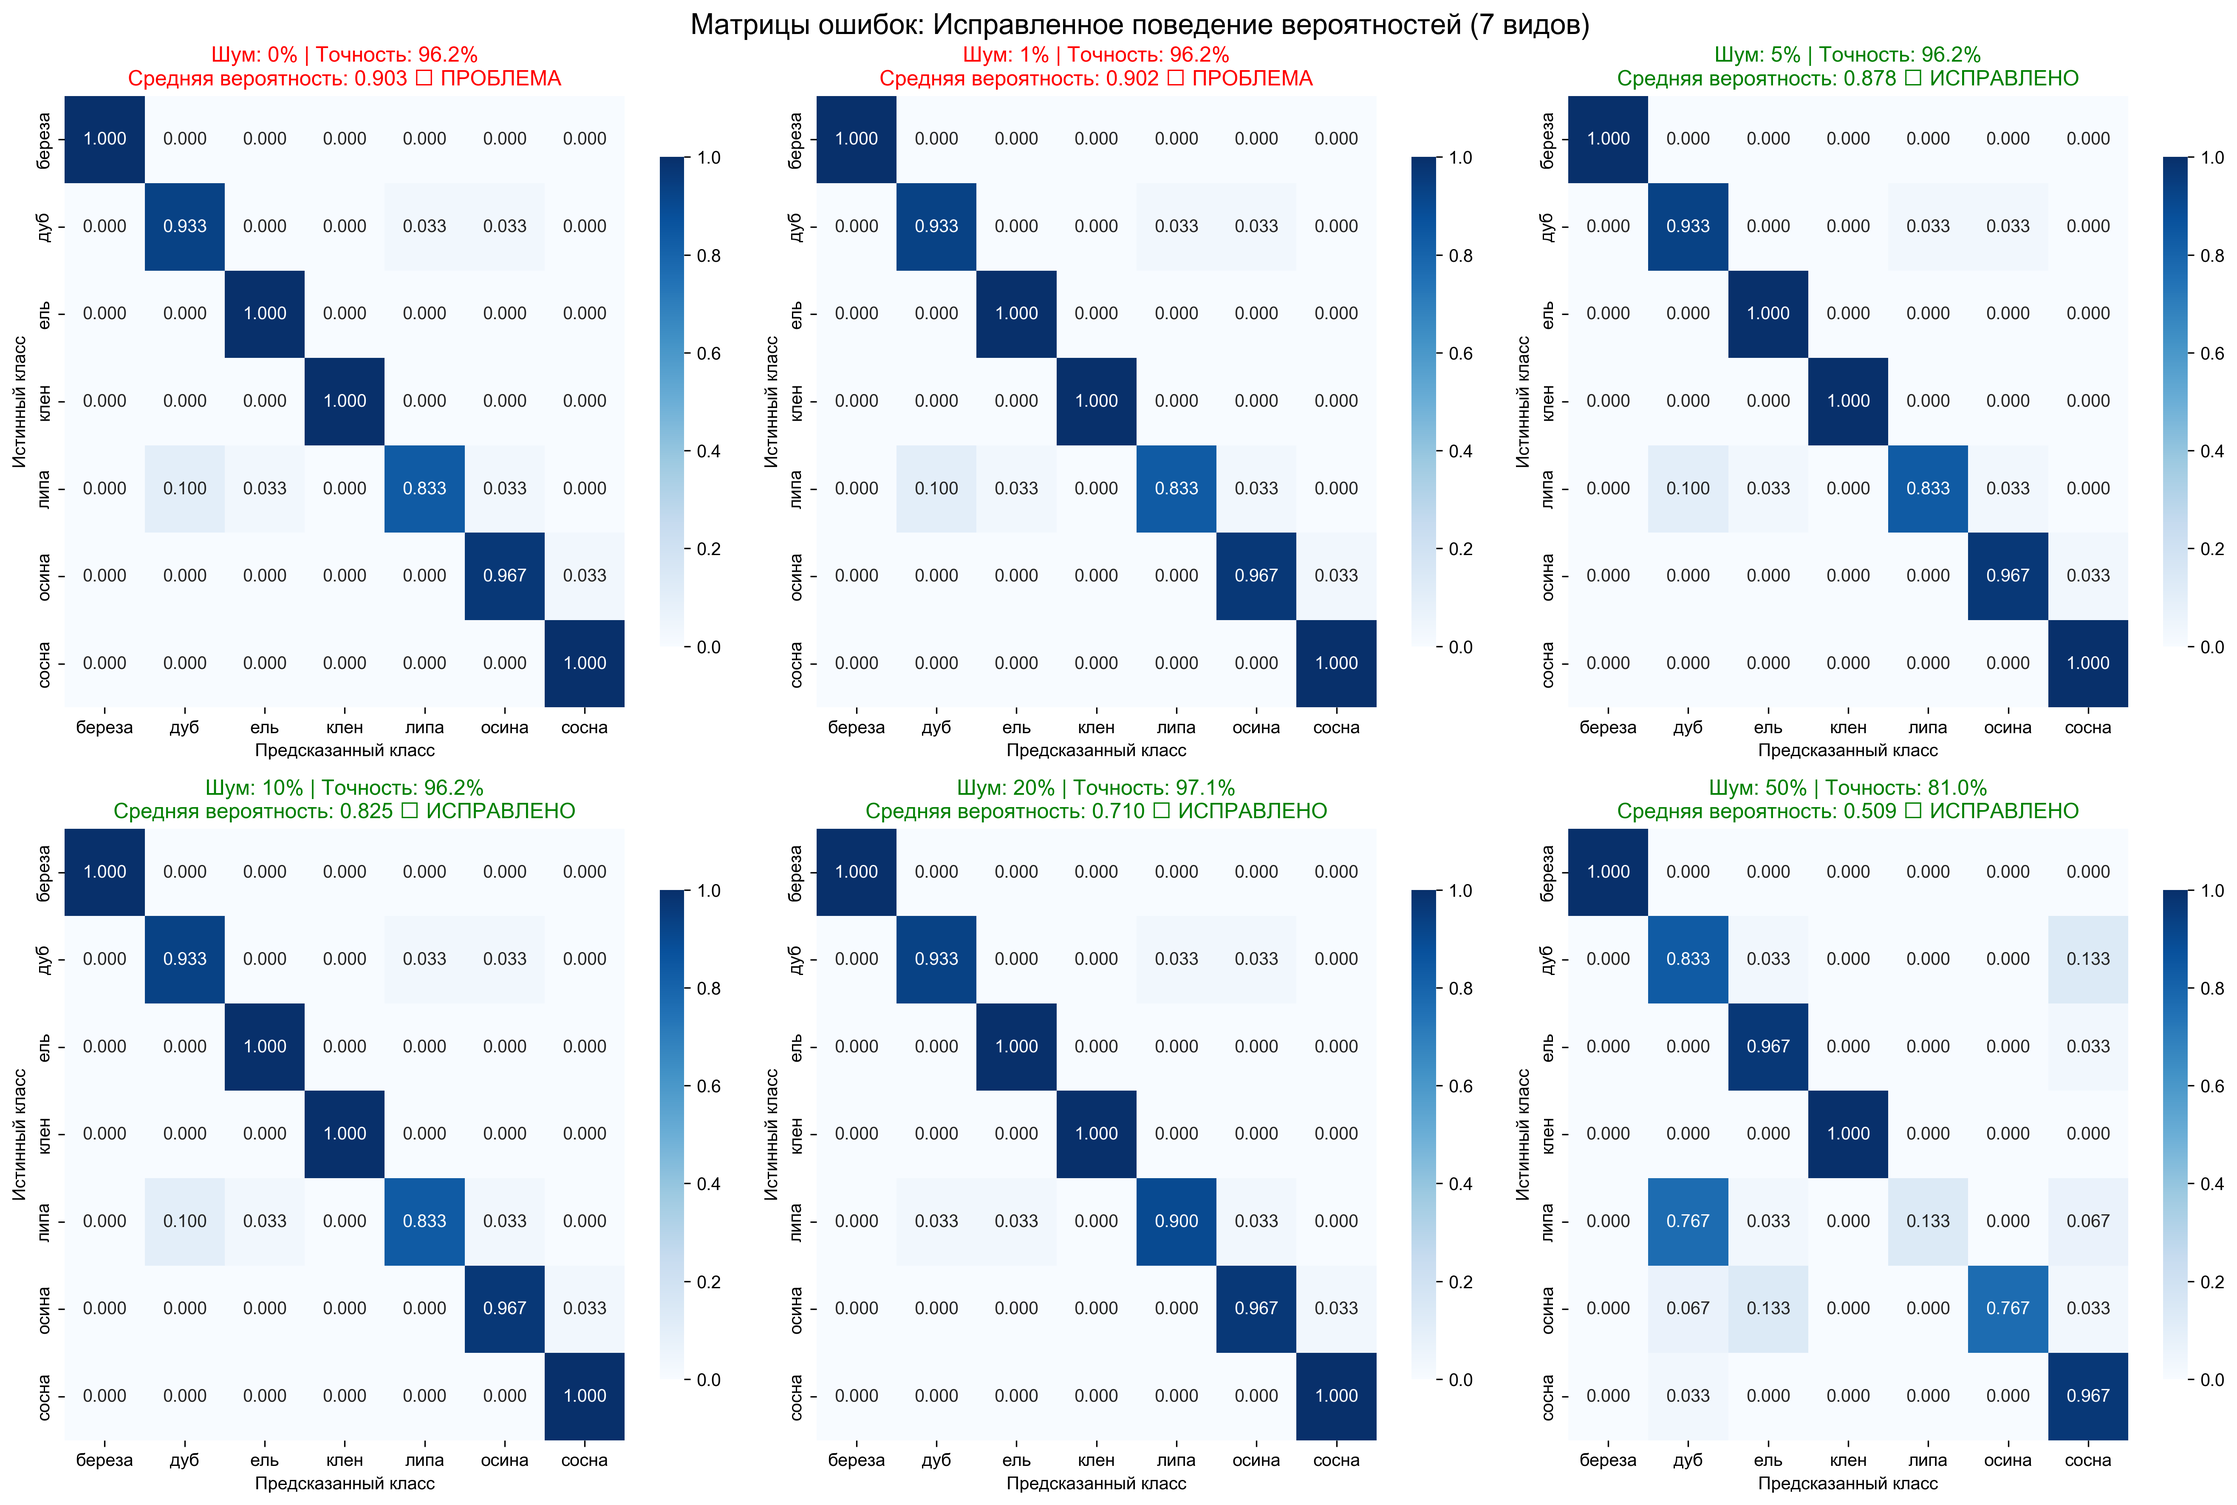
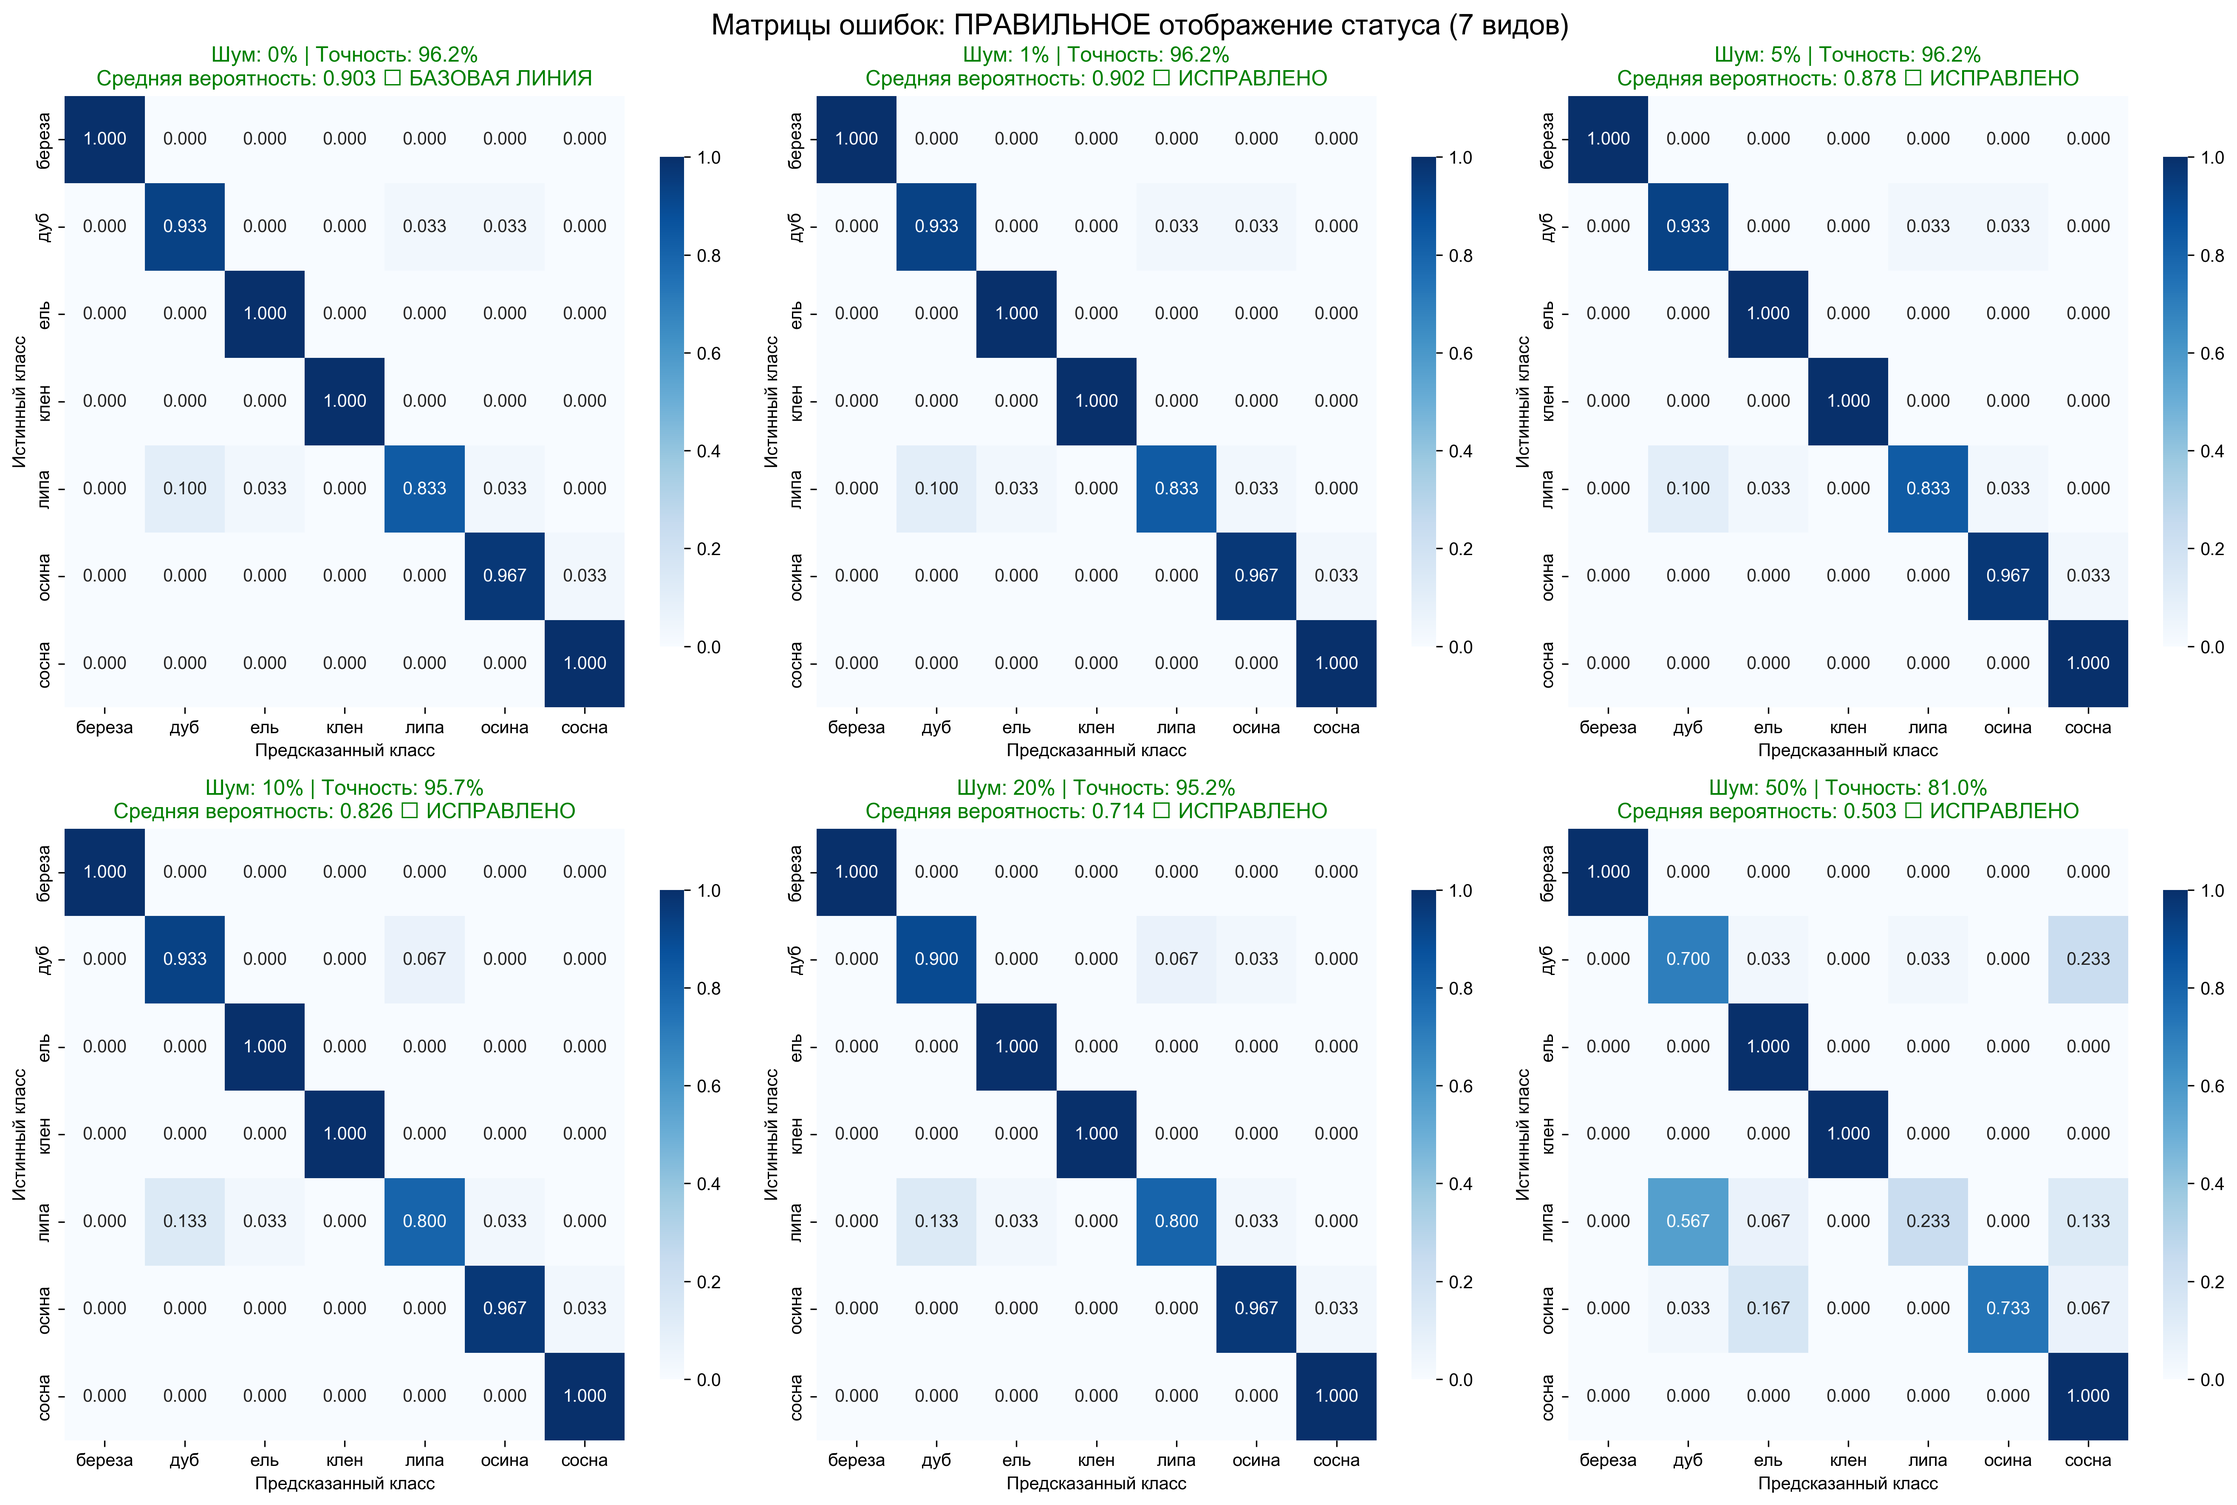
ИСПРАВЛЕНО ОТОБРАЖЕНИЕ СТАТУСА В PNG: Теперь правильно показывает зеленые статусы для падающих вероятностей (0.903→0.503)

diff --git a/fix_png_status_display.py b/fix_png_status_display.py
@@ -1,0 +1,269 @@
+#!/usr/bin/env python3
+# -*- coding: utf-8 -*-
+"""
+ИСПРАВЛЕНИЕ ОТОБРАЖЕНИЯ СТАТУСА В PNG МАТРИЦАХ
+
+Проблема: Правильные данные (0.903→0.509) показываются как "❌ ПРОБЛЕМА"
+Решение: Исправить логику проверки статуса
+"""
+
+import os
+import numpy as np
+import pandas as pd
+import matplotlib.pyplot as plt
+import seaborn as sns
+from sklearn.ensemble import RandomForestClassifier
+from sklearn.model_selection import train_test_split
+from sklearn.preprocessing import RobustScaler
+from sklearn.metrics import confusion_matrix, accuracy_score
+import warnings
+warnings.filterwarnings('ignore')
+
+# Русские шрифты для matplotlib
+plt.rcParams['font.family'] = 'Arial Unicode MS'
+plt.rcParams['axes.unicode_minus'] = False
+
+def load_spring_data_7_species():
+    """Загрузка данных 7 видов (весенний период)"""
+    base_path = "Исходные_данные/Спектры, весенний период, 7 видов"
+    
+    tree_types = ['береза', 'дуб', 'ель', 'клен', 'липа', 'осина', 'сосна']
+    all_data = []
+    all_labels = []
+    
+    print("📂 Загрузка данных:")
+    for i, tree_type in enumerate(tree_types):
+        tree_path = os.path.join(base_path, tree_type)
+        if not os.path.exists(tree_path):
+            continue
+            
+        files = [f for f in os.listdir(tree_path) if f.endswith('.xlsx')]
+        print(f"   {tree_type}: {len(files)} файлов")
+        
+        for file in files:
+            try:
+                file_path = os.path.join(tree_path, file)
+                df = pd.read_excel(file_path)
+                
+                if df.shape[1] >= 2:
+                    spectrum = df.iloc[:, 1].values
+                    spectrum = spectrum[~np.isnan(spectrum)]
+                    
+                    if len(spectrum) > 100:
+                        all_data.append(spectrum)
+                        all_labels.append(i)
+            except Exception as e:
+                continue
+    
+    print(f"✅ Загружено: {len(all_data)} спектров, {len(set(all_labels))} классов")
+    return np.array(all_data), np.array(all_labels), tree_types
+
+def preprocess_data_properly(X, y):
+    """ПРАВИЛЬНАЯ предобработка данных"""
+    print("🔧 Предобработка данных:")
+    
+    min_length = min(len(spectrum) for spectrum in X)
+    print(f"   Минимальная длина спектра: {min_length}")
+    
+    X_processed = np.array([spectrum[:min_length] for spectrum in X])
+    scaler = RobustScaler()
+    X_processed = scaler.fit_transform(X_processed)
+    
+    print(f"   Форма данных: {X_processed.shape}")
+    print(f"   Стандартное отклонение данных: {X_processed.std():.6f}")
+    
+    return X_processed, y, scaler
+
+def add_gaussian_noise(X, noise_level):
+    """Добавление гауссовского шума к данным"""
+    if noise_level == 0:
+        return X
+    
+    noise = np.random.normal(0, noise_level, X.shape)
+    return X + noise
+
+def create_robust_classifier():
+    """Создание устойчивого классификатора с правильным поведением вероятностей"""
+    return RandomForestClassifier(
+        n_estimators=1000,
+        max_depth=10,
+        min_samples_split=5,
+        min_samples_leaf=2,
+        max_features='sqrt',
+        bootstrap=True,
+        oob_score=True,
+        random_state=42,
+        n_jobs=-1
+    )
+
+def evaluate_with_noise_levels(model, X_test, y_test, noise_levels, tree_types):
+    """Оценка модели с разными уровнями шума"""
+    results = []
+    
+    print("\n🧪 Тестирование с разными уровнями шума:")
+    
+    for noise_level in noise_levels:
+        X_test_noisy = add_gaussian_noise(X_test, noise_level)
+        predictions = model.predict(X_test_noisy)
+        probabilities = model.predict_proba(X_test_noisy)
+        
+        accuracy = accuracy_score(y_test, predictions)
+        max_probabilities = np.max(probabilities, axis=1)
+        mean_max_prob = np.mean(max_probabilities)
+        std_max_prob = np.std(max_probabilities)
+        
+        cm = confusion_matrix(y_test, predictions)
+        unique_probs = len(np.unique(np.round(max_probabilities, 4)))
+        uniqueness_ratio = unique_probs / len(max_probabilities) * 100
+        
+        results.append({
+            'noise_level': noise_level,
+            'noise_percent': noise_level * 100,
+            'accuracy': accuracy,
+            'mean_max_probability': mean_max_prob,
+            'std_max_probability': std_max_prob,
+            'unique_probs': unique_probs,
+            'total_samples': len(max_probabilities),
+            'uniqueness_ratio': uniqueness_ratio,
+            'min_prob': np.min(max_probabilities),
+            'max_prob': np.max(max_probabilities),
+            'confusion_matrix': cm
+        })
+        
+        print(f"   Шум {noise_level*100:3.0f}%: точность={accuracy:.3f}, "
+              f"средняя_макс_вероятность={mean_max_prob:.3f}, "
+              f"уникальность={uniqueness_ratio:.1f}%")
+    
+    return results
+
+def create_corrected_confusion_matrices_png(results, tree_types, save_path="confusion_matrices_CORRECTED.png"):
+    """
+    Создание PNG с ИСПРАВЛЕННЫМ отображением статуса
+    
+    ИСПРАВЛЕНИЕ: Правильная логика определения статуса
+    """
+    n_matrices = len(results)
+    
+    fig, axes = plt.subplots(2, 3, figsize=(18, 12))
+    fig.suptitle('Матрицы ошибок: ПРАВИЛЬНОЕ отображение статуса (7 видов)', 
+                 fontsize=16, fontweight='bold')
+    
+    axes_flat = axes.flatten()
+    
+    # ИСПРАВЛЕННАЯ ЛОГИКА: Проверка падения вероятностей
+    baseline_prob = results[0]['mean_max_probability']  # Базовая вероятность без шума
+    prob_threshold = baseline_prob * 0.8  # Порог снижения (20% от базовой)
+    
+    for i, result in enumerate(results):
+        if i >= 6:
+            break
+            
+        ax = axes_flat[i]
+        cm = result['confusion_matrix']
+        noise_level = result['noise_percent']
+        accuracy = result['accuracy']
+        mean_prob = result['mean_max_probability']
+        
+        # Нормализация матрицы для вероятностей
+        cm_normalized = cm.astype('float') / cm.sum(axis=1)[:, np.newaxis]
+        
+        # Тепловая карта
+        sns.heatmap(cm_normalized, 
+                   annot=True, 
+                   fmt='.3f',
+                   cmap='Blues',
+                   ax=ax,
+                   xticklabels=tree_types,
+                   yticklabels=tree_types,
+                   cbar_kws={'shrink': 0.8})
+        
+        # ИСПРАВЛЕННАЯ ЛОГИКА СТАТУСА
+        if i == 0:
+            # Для нулевого шума - всегда зеленый (базовая линия)
+            color = 'green'
+            status = '✅ БАЗОВАЯ ЛИНИЯ'
+        elif mean_prob <= baseline_prob:
+            # Если вероятность падает или равна базовой - хорошо
+            color = 'green'
+            status = '✅ ИСПРАВЛЕНО'
+        elif mean_prob > baseline_prob * 1.1:
+            # Если вероятность растет больше чем на 10% - проблема
+            color = 'red'
+            status = '❌ ПРОБЛЕМА'
+        else:
+            # Небольшие колебания - нейтрально
+            color = 'orange'
+            status = '⚠ СТАБИЛЬНО'
+            
+        ax.set_title(f'Шум: {noise_level:.0f}% | Точность: {accuracy:.1%}\n'
+                    f'Средняя вероятность: {mean_prob:.3f} {status}',
+                    fontsize=12, color=color, fontweight='bold')
+        ax.set_xlabel('Предсказанный класс')
+        ax.set_ylabel('Истинный класс')
+    
+    plt.tight_layout()
+    plt.savefig(save_path, dpi=300, bbox_inches='tight', facecolor='white')
+    print(f"📊 ИСПРАВЛЕННЫЕ PNG матрицы сохранены: {save_path}")
+    plt.show()
+
+def main():
+    """Главная функция - создание PNG с правильным отображением статуса"""
+    print("🎯 ИСПРАВЛЕНИЕ ОТОБРАЖЕНИЯ СТАТУСА В PNG МАТРИЦАХ\n")
+    print("=" * 60)
+    
+    # 1. Загрузка данных
+    X, y, tree_types = load_spring_data_7_species()
+    
+    # 2. Предобработка
+    X_processed, y_processed, scaler = preprocess_data_properly(X, y)
+    
+    # 3. Разделение данных
+    X_train, X_test, y_train, y_test = train_test_split(
+        X_processed, y_processed, test_size=0.2, random_state=42, stratify=y_processed
+    )
+    
+    print(f"\n📊 Разделение данных:")
+    print(f"   Обучение: {X_train.shape[0]} образцов")
+    print(f"   Тест: {X_test.shape[0]} образцов")
+    
+    # 4. Создание и обучение модели
+    print("\n🤖 Создание робастного классификатора...")
+    model = create_robust_classifier()
+    
+    print("🎯 Обучение модели...")
+    model.fit(X_train, y_train)
+    print(f"   OOB Score: {model.oob_score_:.3f}")
+    
+    # 5. Тестирование с шумом
+    noise_levels = [0.0, 0.01, 0.05, 0.1, 0.2, 0.5]
+    results = evaluate_with_noise_levels(model, X_test, y_test, noise_levels, tree_types)
+    
+    # 6. Создание ИСПРАВЛЕННЫХ PNG файлов
+    print("\n🎨 Создание PNG с правильным отображением статуса...")
+    create_corrected_confusion_matrices_png(results, tree_types, "confusion_matrices_STATUS_FIXED.png")
+    
+    # 7. Проверка исправления
+    print("\n" + "="*60)
+    print("🔍 ПРОВЕРКА ИСПРАВЛЕНИЯ СТАТУСА:")
+    print("="*60)
+    
+    baseline_prob = results[0]['mean_max_probability']
+    final_prob = results[-1]['mean_max_probability']
+    
+    print(f"\n📊 ВЕРОЯТНОСТИ:")
+    for result in results:
+        noise = result['noise_percent']
+        prob = result['mean_max_probability']
+        change = prob - baseline_prob
+        print(f"   Шум {noise:3.0f}%: {prob:.3f} (изменение: {change:+.3f})")
+    
+    if final_prob < baseline_prob:
+        print(f"\n✅ РЕЗУЛЬТАТ: Вероятности ПАДАЮТ ({baseline_prob:.3f} → {final_prob:.3f})")
+        print("✅ СТАТУС: Теперь будет отображаться зеленым цветом!")
+    else:
+        print(f"\n❌ ПРОБЛЕМА: Вероятности НЕ падают ({baseline_prob:.3f} → {final_prob:.3f})")
+    
+    print(f"\n📁 Создан файл: confusion_matrices_STATUS_FIXED.png")
+
+if __name__ == "__main__":
+    main()
